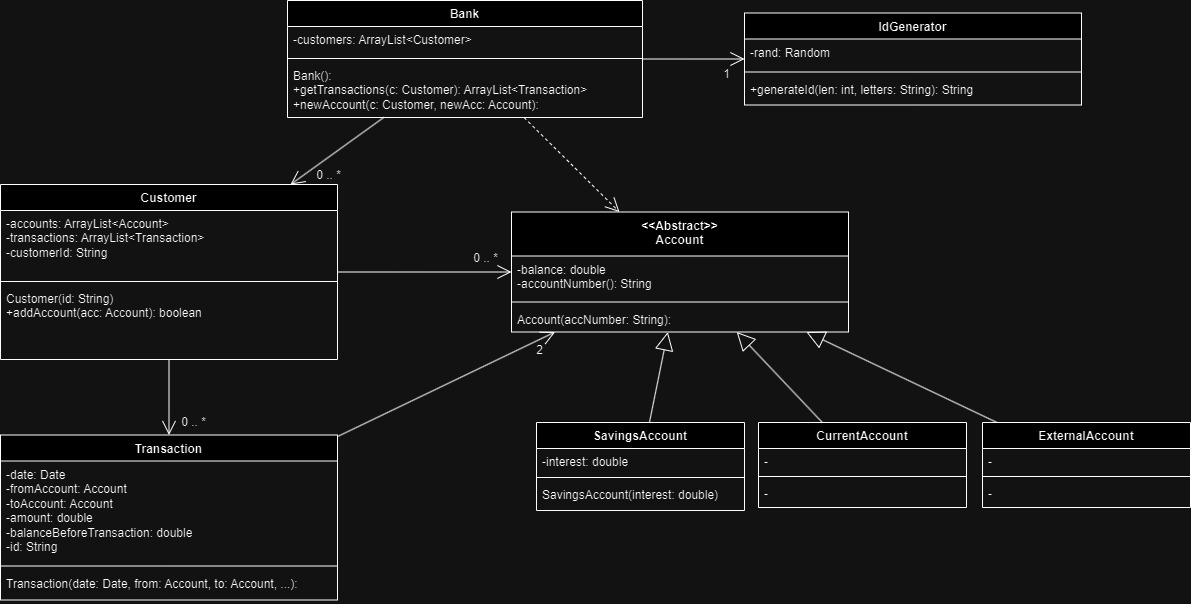
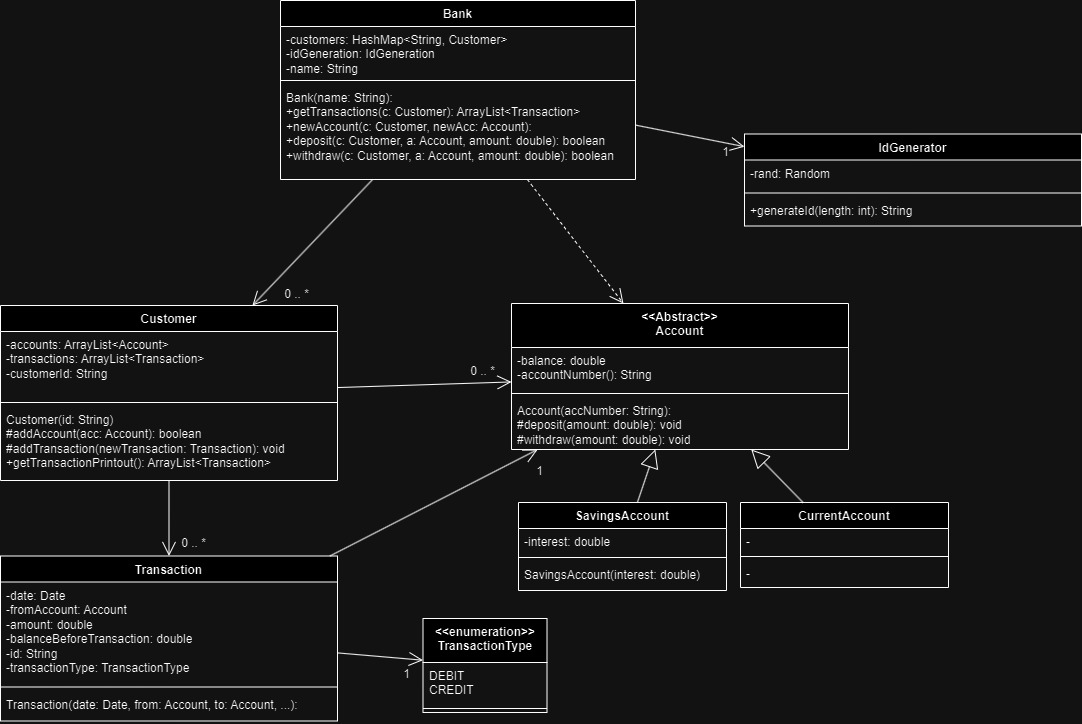
Update class diagram + domain model to reflect certain changes. + implemeented getStatements() method in bank class

diff --git a/src/main/java/com/booleanuk/core/bank/Bank.java b/src/main/java/com/booleanuk/core/bank/Bank.java
@@ -105,4 +105,8 @@ public class Bank {
         return newTransactionId;
     }
 
+    public ArrayList<Transaction> getStatements(Customer customer) {
+        return this.customers.get(customer.getId()).getTransactions();
+    }
+
 }

diff --git a/domain-model.md b/domain-model.md
@@ -8,23 +8,24 @@ As a customer,
 So I can save for a rainy day,
 I want to create a savings account.
 
-| Class         | Member variables      | Methods                                     | Scenario                                                    | Outputs    |
-|---------------|-----------------------|---------------------------------------------|-------------------------------------------------------------|------------|
-| Bank/Customer | `ArrayList<Customer>` | `addAccount(User user, Account newAccount)` | customer wants to create a new account (savings or current) | true/false |
+| Class         | Member variables           | Methods                                          | Scenario                                                    | Outputs                                 |
+|---------------|----------------------------|--------------------------------------------------|-------------------------------------------------------------|-----------------------------------------|
+| Bank/Customer | `HasMap<String, Customer>` | `newAccount(Customer customer, Account account)` | customer wants to create a new account (savings or current) | newly created account, or null if error |
 
 As a customer,
 So I can keep a record of my finances,
 I want to generate bank statements with transaction dates, amounts, and balance at the time of transaction.
 
-| Class         | Member variables      | Methods                        | Scenario                              | Outputs                |
-|---------------|-----------------------|--------------------------------|---------------------------------------|------------------------|
-| Bank/Customer | `ArrayList<Customer>` | `getStatements(String userId)` | customer wants to get bank statements | List with transactions |
+| Class    | Member variables           | Methods                            | Scenario                                  | Outputs                |
+|----------|----------------------------|------------------------------------|-------------------------------------------|------------------------|
+| Bank     | `HasMap<String, Customer>` | `getStatements(Customer customer)` | customer wants to get bank statements     | List with transactions |
+| Customer | `ArrayList<Transactions>`  | `getTransactions()`                | caller wants this customer's transactions | List with transactions |
 
 As a customer,
 So I can use my account,
 I want to deposit and withdraw funds.
 
-| Class         | Member variables      | Methods                                               | Scenario                         | Outputs      |
-|---------------|-----------------------|-------------------------------------------------------|----------------------------------|--------------|
-| Bank/Customer | `ArrayList<Customer>` | `deposit(User user, Account account, double amount)`  | customer wants to deposit money  | success/fail |
-| Bank/Customer | `ArrayList<Customer>` | `withdraw(User user, Account account, double amount)` | customer wants to withdraw money | success/fail |
+| Class | Member variables            | Methods                                                       | Scenario                         | Outputs      |
+|-------|-----------------------------|---------------------------------------------------------------|----------------------------------|--------------|
+| Bank  | `HashMap<String, Customer>` | `deposit(Customer customer, Account account, double amount)`  | customer wants to deposit money  | success/fail |
+| Bank  | `HashMap<String, Customer>` | `withdraw(Customer customer, Account account, double amount)` | customer wants to withdraw money | success/fail |
